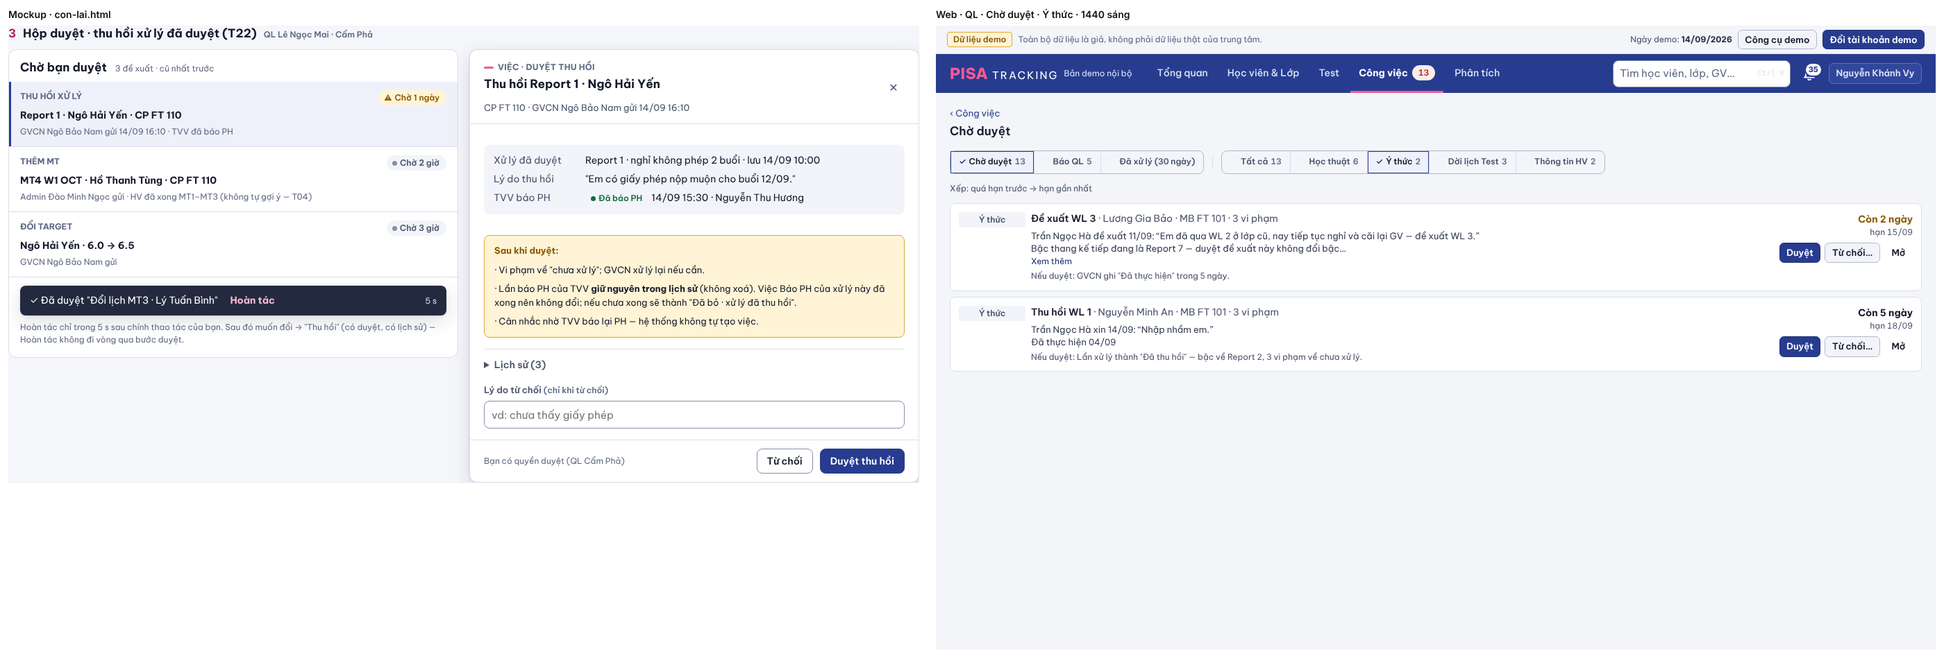
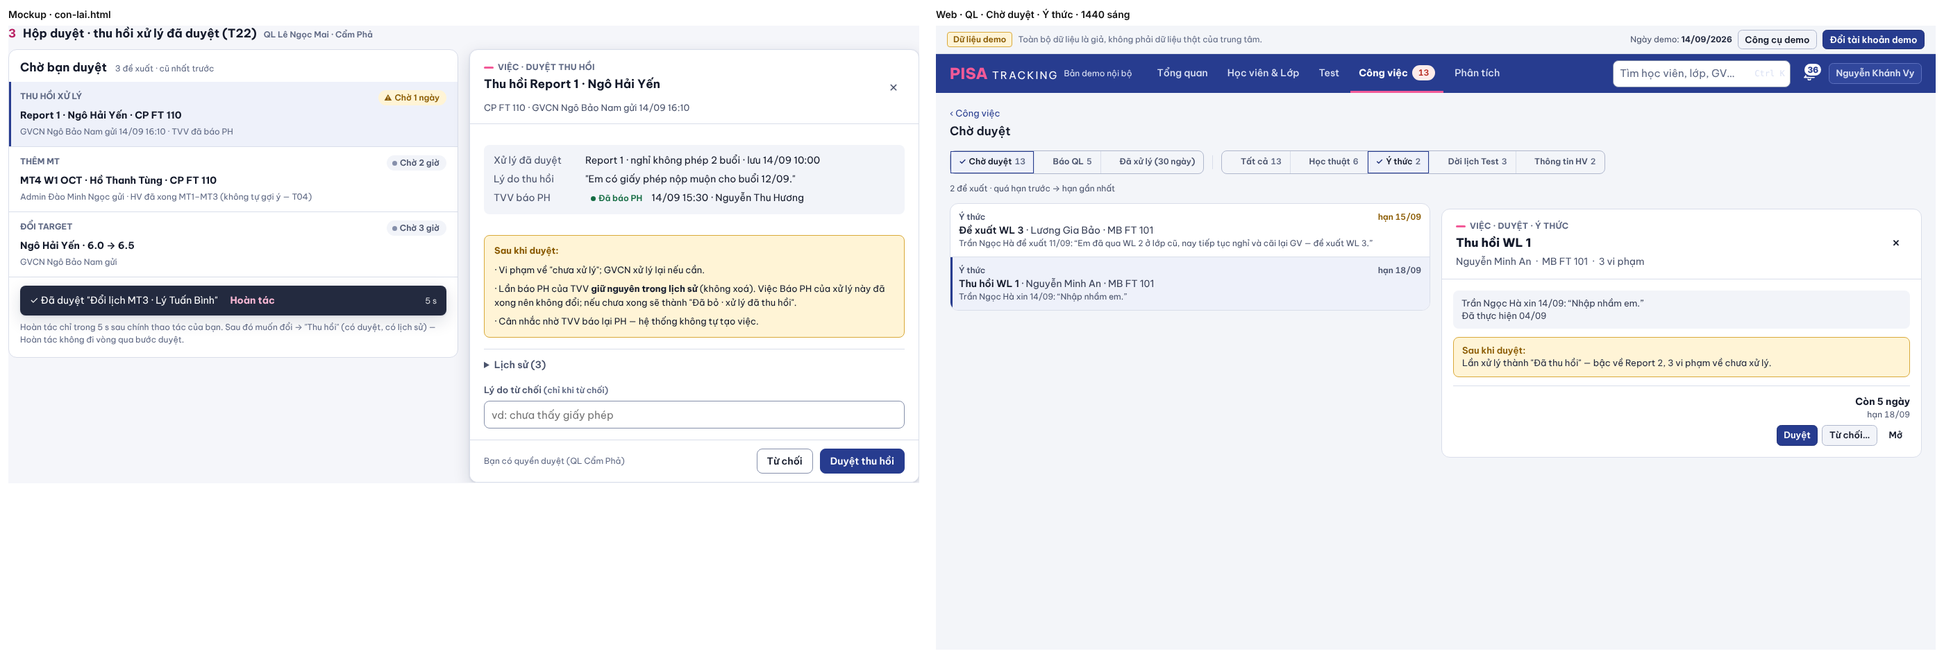
UI-CON-LAI bước 10: k3 Hộp duyệt như mockup — danh sách dòng gọn + panel duyệt tại chỗ (?the=, mẫu Chấm Test, 375 thay danh sách), khối Sau khi duyệt; giữ hàng loạt / Huỷ quyết định / Hoàn tác (chủ SP 24/10) · ảnh k3 chụp lại · khop-khac
Claude-Session: https://claude.ai/code/session_0117uaEoKjeVFST8pKHPHuup

diff --git a/web/src/modules/duyet/HopChoDuyet.tsx b/web/src/modules/duyet/HopChoDuyet.tsx
@@ -3,12 +3,15 @@ import { Link, useSearchParams } from 'react-router-dom';
 import { ApiError, api, invalidate } from '../../lib/api.ts';
 import { useApi } from '../../lib/useApi.ts';
 import { useToast } from '../../ui/Toast.tsx';
-import { BoLocDoan, Card, Empty, ErrorState, Skeleton } from '../../ui/ui.tsx';
+import { BoLocDoan, Card, Empty, ErrorState, NhanTrangThai, Skeleton } from '../../ui/ui.tsx';
+import { KhungPanel, KhungTaiCho, boChuRoi } from '../../ui/KhungPanel.tsx';
+import { useNgayNghiepVu } from '../../ui/ngayNghiepVu.ts';
+import { dich, t } from '@shared/i18n/index.ts';
 import { BranchFilter, useChiNhanhMacDinh } from '../../ui/Filters.tsx';
 import { NganCase } from '../students/NganCase.tsx';
 import { TheYeuCau } from './TheYeuCau.tsx';
 import {
-  LOAI_YC_META, PHAN_LOAI_CAN_QUYET, PHAN_LOAI_LABEL, TRAN_HANG_LOAT, chiaLo, chonHet, chonMot, laPhanLoai, tomTatKetQuaHangLoat,
+  LOAI_YC_META, PHAN_LOAI_CAN_QUYET, PHAN_LOAI_LABEL, TRAN_HANG_LOAT, chiaLo, chonHet, chonMot, deadlineView, laPhanLoai, nhanTrangThaiYc, tomTatKetQuaHangLoat,
   type KhoaChip, type LoaiYeuCau, type TheYeuCauDto,
 } from '@shared/domain/index.ts';
 
@@ -64,6 +67,12 @@ export function HopChoDuyet({ gon = false, branchId: cnTrang }: {
     next.delete('the');
     setParams(next, { replace: true });
   };
+  /* UI-CON-LAI k3: mở / đóng panel duyệt = `?the=` (giữ mọi bộ lọc). */
+  const moThe = (id: number | null) => {
+    const next = new URLSearchParams(params);
+    if (id) next.set('the', String(id)); else next.delete('the');
+    setParams(next, { replace: true });
+  };
   /* PR-GVb (J5b): link cũ `?phan=bao-len` (thông báo, Tổng quan cũ) → tab Báo QL, không gãy. */
   useEffect(() => {
     if (params.get('phan') !== 'bao-len') return;
@@ -83,6 +92,7 @@ export function HopChoDuyet({ gon = false, branchId: cnTrang }: {
   /* Mở từ chuông mà thẻ không còn trong danh sách đang xem (đã có người xử lý / tự đóng / khác chi nhánh đang lọc). */
   const theTuLink = Number(params.get('the')) || null;
   const theLac = !!data && !!theTuLink && !data.the.some((x) => x.id === theTuLink);
+  const theMo = theTuLink ? data?.the.find((x) => x.id === theTuLink) ?? null : null;
 
   /* Hàng loạt: một loại một lúc (luật ở `chonMot` / `chonHet`). */
   const [chon, setChon] = useState<Set<number>>(new Set());
@@ -181,7 +191,7 @@ export function HopChoDuyet({ gon = false, branchId: cnTrang }: {
           </button>
         )}
       </div>
-      {xem !== 'da-xu-ly' && ds.length > 1 && <p className="m-0 text-[12px] text-slate-400">Xếp: quá hạn trước → hạn gần nhất</p>}
+      {xem !== 'da-xu-ly' && ds.length > 1 && <p className="m-0 text-[12px] text-slate-400">{t('{n} đề xuất · quá hạn trước → hạn gần nhất', { n: ds.length })}</p>}
       {coCapHangLoat && <p className="m-0 text-[12px] text-slate-400">Đánh dấu ô ở thẻ để duyệt nhiều cùng loại.</p>}
       {theLac && (
         <p role="status" className="m-0 flex flex-wrap items-center gap-2 rounded-lg border px-3 py-2 text-[13px] text-slate-300"
@@ -201,7 +211,38 @@ export function HopChoDuyet({ gon = false, branchId: cnTrang }: {
         <Card><Empty title={xem === 'cho' ? 'Không có yêu cầu nào đang chờ' : xem === 'de-biet' ? 'Không có thẻ Báo QL'
           : 'Chưa có yêu cầu nào được xử lý trong 30 ngày'} /></Card>
       )}
-      {ds.length > 0 && (
+      {/* UI-CON-LAI k3 (con-lai.html, chủ SP 24/10): hộp đầy đủ = DANH SÁCH dòng gọn (quá hạn / cũ trước) + PANEL duyệt bên phải (375: toàn màn).
+          Bấm dòng = `?the=` (chuông / Quay lại mở đúng thẻ); quyết xong panel đóng, danh sách làm mới. Bản gọn đầu Công việc giữ thẻ tại chỗ. */}
+      {ds.length > 0 && !gon && (
+        /* Cùng mẫu Chấm Test: ≥ 1024 hai cột, panel TẠI CHỖ (không phủ, danh sách vẫn bấm được); < 1024 bấm dòng → panel thay danh sách. */
+        <div className="grid items-start gap-4 lg:grid-cols-[minmax(0,1fr)_minmax(0,1fr)]">
+          <ul className={`card m-0 list-none overflow-hidden p-0 ${theMo ? 'max-lg:hidden' : ''}`} aria-label="Danh sách yêu cầu">
+            {ds.map((y) => (
+              <DongYeuCau key={y.id} yc={y} dang={theTuLink === y.id} onMo={() => { if (theTuLink !== y.id) boChuRoi(() => moThe(y.id)); }}
+                chon={choHangLoat && y.hangLoat && y.trangThai === 'cho' ? {
+                  checked: chon.has(y.id),
+                  onChange: (v) => setChon((s) => chonMot(ds, s, y.id, v)),
+                } : null} />
+            ))}
+          </ul>
+          <div className={`lg:sticky lg:top-3 ${theMo ? 'space-y-2' : 'max-lg:hidden'}`}>
+            {theMo ? (
+              <>
+                <button type="button" className="link flex min-h-[44px] items-center gap-1.5 appearance-none border-0 bg-transparent p-0 text-[13px] lg:hidden"
+                  onClick={() => boChuRoi(() => moThe(null))}>‹ Chờ duyệt</button>
+                <KhungTaiCho.Provider value>
+                  <KhungPanel key={theMo.id} tieuDe={dich(theMo.tieuDe)} loai={`${t('VIỆC · DUYỆT')} · ${dich(theMo.nhanPhanLoai).toLocaleUpperCase('vi')}`}
+                    dau={{ dong2: [theMo.hocVien, theMo.lop, theMo.phu].filter(Boolean).map((x) => dich(x as string)) }}
+                    onDong={() => moThe(null)}>
+                    <TheYeuCau yc={theMo} panel onXong={() => { moThe(null); xong(); }} onThemPa={setNgan} />
+                  </KhungPanel>
+                </KhungTaiCho.Provider>
+              </>
+            ) : <Card><Empty title={t('Chọn một đề xuất bên trái để xem và quyết')} /></Card>}
+          </div>
+        </div>
+      )}
+      {ds.length > 0 && gon && (
         <div className="space-y-2">
           {dsHien.map((y) => (
             <TheYeuCau key={y.id} yc={y} nhanManh={nhan === y.id} onXong={xong} onThemPa={setNgan}
@@ -270,5 +311,38 @@ export function HopChoDuyet({ gon = false, branchId: cnTrang }: {
 
       {ngan && <NganCase caseId={ngan} viec="them-pa" onClose={() => setNgan(null)} onChanged={xong} />}
     </div>
+  );
+}
+
+/** UI-CON-LAI k3: MỘT dòng gọn của Hộp duyệt — loại · hạn (chữ, không chỉ màu) / việc · em · lớp / dòng đầu của lý do. Bấm = mở panel duyệt. */
+function DongYeuCau({ yc, dang, onMo, chon }: {
+  yc: TheYeuCauDto; dang: boolean; onMo: () => void; chon: { checked: boolean; onChange: (v: boolean) => void } | null;
+}) {
+  const { homNay, ngan } = useNgayNghiepVu();
+  const cho = yc.trangThai === 'cho';
+  const hanV = cho && yc.hanDuyet ? deadlineView({ kind: 'duyet', due: yc.hanDuyet, today: homNay }) : null;
+  const han = !hanV ? null : hanV.tone === 'overdue' ? `⚠ ${t('Quá hạn · {daysOverdue} ngày', { daysOverdue: hanV.daysOverdue })}` : hanV.homNay ? t('Hạn hôm nay') : hanV.han;
+  const tt = nhanTrangThaiYc(yc.trangThai, yc.tuDuyet);
+  return (
+    <li className={`flex items-start gap-2 border-b px-3 py-2.5 last:border-b-0 ${dang ? 'bg-[color:var(--accent-soft)] shadow-[inset_3px_0_0_var(--accent)]' : 'bam'}`}
+      style={{ borderColor: 'var(--line)' }}>
+      {chon && (
+        <label className="relative mt-1 inline-flex shrink-0 cursor-pointer max-sm:after:absolute max-sm:after:left-1/2 max-sm:after:top-1/2 max-sm:after:h-11 max-sm:after:w-11 max-sm:after:-translate-x-1/2 max-sm:after:-translate-y-1/2 max-sm:after:content-['']">
+          <input type="checkbox" className="h-4 w-4 accent-[color:var(--accent)]" checked={chon.checked}
+            onChange={(e) => chon.onChange(e.target.checked)} aria-label={t('Chọn: {tieuDe}', { tieuDe: dich(yc.tieuDe) })} />
+        </label>
+      )}
+      <button type="button" className="min-h-[44px] min-w-0 flex-1 cursor-pointer border-0 bg-transparent p-0 text-left sm:min-h-0" aria-current={dang || undefined} onClick={onMo}>
+        <span className="flex items-baseline justify-between gap-2">
+          <span className="truncate text-[12px] font-semibold text-slate-400">{dich(yc.nhanPhanLoai)}</span>
+          {cho ? han && <span className={`shrink-0 text-[12px] font-semibold tabular-nums ${hanV!.tone === 'overdue' ? 'text-late' : hanV!.ganHan ? 'text-soon' : 'text-slate-400'}`}>{han}</span>
+            : <span className="flex shrink-0 items-center gap-1.5"><NhanTrangThai t={tt.t} />{yc.xuLyLuc && <span className="text-[12px] text-slate-400">{ngan(yc.xuLyLuc)}</span>}</span>}
+        </span>
+        <b className="block truncate text-sm font-semibold text-slate-100">
+          {dich(yc.tieuDe)}{[yc.hocVien, yc.lop].filter(Boolean).length ? <span className="font-normal text-slate-300"> · {[yc.hocVien, yc.lop].filter(Boolean).join(' · ')}</span> : null}
+        </b>
+        {yc.dong[0] && <span className="block truncate text-[12px] text-slate-400">{dich(yc.dong[0])}</span>}
+      </button>
+    </li>
   );
 }

diff --git a/web/src/modules/duyet/TheYeuCau.tsx b/web/src/modules/duyet/TheYeuCau.tsx
@@ -30,7 +30,7 @@ const HUY_DUOC = new Set<string>(['de_xuat_pa', 'thu_hoi_y_thuc']);
  */
 type O = { loai: 'tu-choi' | 'tra-loi' | 'ghi-chu' | 'tuan' | 'sua' | 'sua-tra-loi' | 'rut' } | null;
 
-export function TheYeuCau({ yc, onXong, gon, laNguoiXin, chon, nhanManh, onThemPa }: {
+export function TheYeuCau({ yc, onXong, gon, laNguoiXin, chon, nhanManh, onThemPa, panel }: {
   yc: TheYeuCauDto;
   /** Sau khi thẻ đã được quyết (hoặc phát hiện đã bị người khác xử lý) — nơi gọi làm mới danh sách. */
   onXong: (id: number) => void;
@@ -44,6 +44,8 @@ export function TheYeuCau({ yc, onXong, gon, laNguoiXin, chon, nhanManh, onThemP
   nhanManh?: boolean;
   /** Xin ý kiến: "+ Thêm PA cho em" mở Thêm PA của Ngăn Case. */
   onThemPa?: (caseId: number) => void;
+  /** UI-CON-LAI k3: nằm trong panel duyệt của Hộp duyệt — một cột, tiêu đề ở đầu panel, lý do đọc hết, "Nếu duyệt" thành khối hậu quả, nút ở cuối. */
+  panel?: boolean;
 }) {
   const toast = useToast();
   const { homNay, ngan } = useNgayNghiepVu();
@@ -54,7 +56,7 @@ export function TheYeuCau({ yc, onXong, gon, laNguoiXin, chon, nhanManh, onThemP
   const [daBam, setDaBam] = useState(false);
   const [loiMay, setLoiMay] = useState<string | null>(null);
   const [busy, setBusy] = useState(false);
-  const [moHet, setMoHet] = useState(false);
+  const [moHet, setMoHet] = useState(!!panel);
   /* PR-CT: Duyệt thẻ Đề xuất chuyển lớp = mở panel ra lệnh điền sẵn (Quản lý sửa lớp, tuần rồi `Duyệt và quyết định`). */
   const [moChuyenLop, setMoChuyenLop] = useState(false);
   const nutMo = useRef<HTMLButtonElement | null>(null);
@@ -180,11 +182,11 @@ export function TheYeuCau({ yc, onXong, gon, laNguoiXin, chon, nhanManh, onThemP
 
   return (
     <article id={`the-${yc.id}`} data-the-id={yc.id} aria-label={`${dich(yc.nhanPhanLoai)}: ${dich(yc.tieuDe)}`}
-      className={`rounded-lg border p-3 transition-shadow ${nhanManh ? 'shadow-[0_0_0_2px_var(--accent-strong)]' : ''}`}
-      style={{ borderColor: hanV?.tone === 'overdue' && cho ? 'rgb(var(--late-line-rgb))' : 'var(--line)', background: 'var(--surface)' }}>
-      <div className="grid gap-x-4 gap-y-2 sm:grid-cols-[minmax(0,1fr)_auto]">
+      className={panel ? 'pt-3' : `rounded-lg border p-3 transition-shadow ${nhanManh ? 'shadow-[0_0_0_2px_var(--accent-strong)]' : ''}`}
+      style={panel ? undefined : { borderColor: hanV?.tone === 'overdue' && cho ? 'rgb(var(--late-line-rgb))' : 'var(--line)', background: 'var(--surface)' }}>
+      <div className={panel ? 'flex flex-col gap-3' : 'grid gap-x-4 gap-y-2 sm:grid-cols-[minmax(0,1fr)_auto]'}>
         <div className="min-w-0">
-          <div className="flex items-start gap-2">
+          {!panel && <div className="flex items-start gap-2">
             {chon && (
               /* OV-11i (P2-3): bọc <label> — vùng chạm 44 × 44 ở điện thoại (`after:`, mẫu MenuDong), ô tích giữ 16 px. */
               <label className="relative mt-1 inline-flex shrink-0 cursor-pointer max-sm:after:absolute max-sm:after:left-1/2 max-sm:after:top-1/2 max-sm:after:h-11 max-sm:after:w-11 max-sm:after:-translate-x-1/2 max-sm:after:-translate-y-1/2 max-sm:after:content-['']">
@@ -200,21 +202,27 @@ export function TheYeuCau({ yc, onXong, gon, laNguoiXin, chon, nhanManh, onThemP
               <b className="font-semibold text-slate-100">{dich(yc.tieuDe)}</b>
               {moTaPhu && <span className="text-slate-400"> · {dich(moTaPhu)}</span>}
             </p>
-          </div>
-          <div className={`mt-1 text-[13px] leading-snug text-slate-300 ${gon ? '' : 'sm:pl-[6.5rem]'}`}>
-            <div ref={khungDong} className={moHet ? '' : 'line-clamp-2'}>
+          </div>}
+          <div className={`mt-1 text-[13px] leading-snug text-slate-300 ${gon || panel ? '' : 'sm:pl-[6.5rem]'}`}>
+            <div ref={khungDong} className={panel ? 'rounded-lg bg-[color:var(--surface-2)] px-3 py-2.5' : moHet ? '' : 'line-clamp-2'}>
               {yc.dong.map((d, i) => <p key={i} className="m-0 whitespace-pre-line">{dich(d)}</p>)}
             </div>
-            {(biCat || moHet) && (
+            {(biCat || moHet) && !panel && (
               <button type="button" className="mt-0.5 min-h-[44px] text-[12px] text-[color:var(--accent-strong)] hover:underline sm:min-h-0" onClick={() => setMoHet(!moHet)}
                 aria-expanded={moHet}>{moHet ? t('Thu gọn') : t('Xem thêm')}</button>
             )}
-            {yc.neuDuyet && cho && <p className="m-0 mt-1 text-[12px] text-slate-400">{t('Nếu duyệt: {neuDuyet}', { neuDuyet: dich(yc.neuDuyet) })}</p>}
+            {yc.neuDuyet && cho && (panel ? (
+              /* k3: hậu quả nêu TRƯỚC khi bấm — khối vàng như mockup. */
+              <div className="mt-3 rounded-lg border px-3 py-2.5 text-[13px]" style={{ borderColor: 'rgb(var(--soon-line-rgb))', background: 'rgb(var(--soon-bg-rgb))' }}>
+                <b className="block font-semibold" style={{ color: 'rgb(var(--soon-rgb))' }}>{t('Sau khi duyệt:')}</b>
+                <span className="text-slate-200">{dich(yc.neuDuyet)}</span>
+              </div>
+            ) : <p className="m-0 mt-1 text-[12px] text-slate-400">{t('Nếu duyệt: {neuDuyet}', { neuDuyet: dich(yc.neuDuyet) })}</p>)}
             {!cho && <KetQua yc={yc} ngan={ngan} />}
           </div>
         </div>
 
-        <div className="flex flex-col gap-1.5 sm:items-end sm:text-right">
+        <div className={`flex flex-col gap-1.5 ${panel ? 'items-end border-t pt-3 text-right' : 'sm:items-end sm:text-right'}`} style={panel ? { borderColor: 'var(--line)' } : undefined}>
           {cho ? (
             tang1 && (
               <div className="tabular-nums">

diff --git a/server/src/tests/prUiConLai.tests.ts b/server/src/tests/prUiConLai.tests.ts
@@ -63,4 +63,10 @@ export async function runPrUiConLaiTests(t: any) {
     assert(!/ChuThieu/.test(hop) && /cell\.thieuNhanXet \? VIEN_THIEU_NX/.test(hop) && /CHU_O_THIEU\[cell\.thieuNhanXet\]/.test(hop), 'lưới: viền vàng + tooltip, không chữ');
     assert(!/text-soon/.test(lon) && /--soon-rgb/.test(lon) && /aria-description=\{thieu/.test(lon), 'ô lớn: viền vàng + aria, không chữ');
   });
+
+  check('UICL-7 (k3, chủ SP 24/10) · Hộp duyệt đầy đủ = danh sách dòng gọn + panel duyệt TẠI CHỖ (`?the=`, mẫu Chấm Test); bản gọn giữ thẻ; hàng loạt giữ', () => {
+    const h = fs.readFileSync(path.join(REPO, 'web/src/modules/duyet/HopChoDuyet.tsx'), 'utf8');
+    assert(/<DongYeuCau /.test(h) && /<KhungTaiCho\.Provider value>/.test(h) && /<TheYeuCau yc=\{theMo\} panel /.test(h), 'danh sách + panel');
+    assert(/next\.set\('the', String\(id\)\)/.test(h) && /ds\.length > 0 && gon &&/.test(h) && /chonMot\(ds, s, y\.id, v\)/.test(h), '?the= · bản gọn · hàng loạt');
+  });
 }

diff --git a/shared/i18n/en/uiConLai.ts b/shared/i18n/en/uiConLai.ts
@@ -17,4 +17,8 @@ export const EN_UI_CON_LAI = {
   'Không thấy': 'Not found',
   'Đường dẫn có thể cũ.': 'The link may be out of date.',
   'Hồ sơ của tôi ›': 'My profile ›',
+  '{n} đề xuất · quá hạn trước → hạn gần nhất': '{n} requests · overdue first → nearest deadline',
+  'Sau khi duyệt:': 'After approval:',
+  'VIỆC · DUYỆT': 'TASK · APPROVE',
+  'Chọn một đề xuất bên trái để xem và quyết': 'Pick a request on the left to review and decide',
 } as const;

diff --git a/docs/anh/ui-con-lai/khop-khac.md b/docs/anh/ui-con-lai/khop-khac.md
@@ -20,7 +20,8 @@ Số trên web là dữ liệu seed (khác số demo mockup) — so khung, thứ
 | 10 | k2 khoảng tuần Phân tích "tối đa 13" | **không sửa** — P9 (mới hơn) đã làm ở #558: Toàn bộ / tự do, không trần | — | BỎ (P9 thắng) |
 | 11 | k3 thẻ thu hồi: lý do · xử lý đã duyệt (ngày) · TVV báo PH · hậu quả trước khi duyệt | thẻ Hộp duyệt (V4) + máy chủ `loaiYeuCau.ts` `thu_hoi_y_thuc.nap`: "Đã thực hiện 07/08", "TVV đã báo PH dd/mm · tên — giữ trong lịch sử" / "TVV chưa báo PH — duyệt thì việc Báo PH thành Đã bỏ"; "Nếu duyệt" thêm nhắc báo lại PH | `cap-k3-hop-duyet-*` | KHỚP |
 | 12 | k3 **Hoàn tác 5 s chỉ thao tác của chính mình**, không vòng qua duyệt | toast Hoàn tác chung (`toast.hoanTac`, `HOAN_TAC_MS`) sau Duyệt / Từ chối — chỉ loại máy chủ huỷ được (`khiHuy`: Đề xuất PA, Thu hồi); bấm = đường "Huỷ quyết định" sẵn có (máy chủ kiểm quyền + trong ngày). Phép kiểm UICL-5 khoá danh sách loại | — | KHỚP |
-| 13 | k3 danh sách trái + panel duyệt phải | giữ thẻ tại chỗ của Hộp duyệt V4 (Duyệt · Từ chối… · Mở) — đổi bố cục cả hộp là PR màn riêng | `cap-k3-*` | KHÁC → [XM-2] |
+| 13 | k3 danh sách trái + panel duyệt phải (chủ SP 24/10: làm như mockup) | Hộp duyệt đầy đủ: `DongYeuCau` (loại · hạn · việc · em · lớp · dòng lý do; ô chọn hàng loạt giữ) + panel **tại chỗ** bên phải (`KhungTaiCho`, mẫu Chấm Test; 375: bấm dòng → panel thay danh sách, "‹ Chờ duyệt" về lại); `?the=` mở đúng thẻ (chuông, Quay lại); panel: bối cảnh trên nền nhạt, khối vàng "Sau khi duyệt:", hạn + Duyệt · Từ chối… · Mở cuối panel. Bản gọn đầu Công việc giữ thẻ | `cap-k3-hop-duyet-*` | KHỚP |
+| 13b | k3 "Lịch sử (3)" gập trong panel | không có — thẻ chưa trả lịch sử (gửi / báo PH / lưu); lịch sử xem ở hồ sơ HV › Ý thức (nút Mở) | `cap-k3-*` | KHÁC (nhỏ) |
 | 14 | k4 Công việc (n) = việc của tôi; chuông = tin **chưa đọc**, dáng khác (nền trắng chữ xanh) | chuông nét mảnh mọi bề rộng + chấm tròn `.cham-chuong` (trước: nút chữ "Thông báo" + số nền màu như badge việc) | `cap-k4-thong-bao-*` | KHỚP |
 | 15 | k4 nợ #528: badge việc không đếm `mine:false`; `viecQuaHan` chỉ kỹ năng thật sự quá hạn | `mywork.ts` `demSo` (đếm việc `mine`; Nhập điểm đếm `knsQuaHan`); hồ sơ GV xem người khác đếm theo `mine` gốc. Phép kiểm UICL-1…3 | — | KHỚP |
 | 16 | k4 không thông báo: "Chưa có thông báo mới" một dòng | đổi chữ + bỏ khối cao | — | KHỚP |
@@ -42,9 +43,8 @@ Số trên web là dữ liệu seed (khác số demo mockup) — so khung, thứ
 | — | BỎ: dòng chú thích mockup ("Tuần thuộc tháng chứa thứ Năm…", "Luật hai dấu hiệu…", "Hoàn tác chỉ trong 5 s…", "Panel ở 375 = toàn màn…") — P1 | không lên web | — | BỎ |
 | — | BỎ (truy vết): hàng "Hôm nay · Hôm qua" ở ô ngày · chuông dùng chung số việc · xuất ngầm chỉ trang đang thấy | đúng như BỎ | — | BỎ |
 
-**Đếm** (trừ dòng BỎ): 31 dòng − 1 (dòng 10 BỎ) = 30 · KHỚP 23 · KHÁC 7 (6, 9, 13, 22, 27, 31 nhỏ; 13 [XM-2]) → 23 / 30 = **77 %** theo dòng;
-theo **yêu cầu chốt** của truy vết (k1–k8, mỗi khung một dòng): k1 ✓ · k2 ✓ · k3 ✓ (thẻ, không panel) · k4 ✓ · k5 ✓ · k6 ✓ · k7 ✓ · k8 ✓ → 8 / 8.
-Cổng 90 % theo dòng **chưa đạt** nếu tính các KHÁC nhỏ — xem [XM-2], [XM-3].
+**Đếm** (trừ dòng BỎ): 32 dòng − 1 (dòng 10 BỎ) − 2 dòng chủ SP đã chốt không làm (22 hàng đợi gửi lại — XM-3 "theo đề xuất"; 27 CSV — P11) = 29 · KHỚP 24 · KHÁC nhỏ 5 (6, 9, 13b, 31, và k5 khối xung đột chỉ kiểm bằng mã) → 24 / 29 = **83 %** theo dòng; theo 8 khung yêu cầu: 8 / 8.
+Phần KHÁC còn lại đều là chi tiết nhỏ (dòng phụ GVCN ở kết quả tìm, ba tháng cạnh nhau, Lịch sử gập, gập bối cảnh khi bàn phím mở).
 
 ## Thao tác TRƯỚC → SAU
 
@@ -55,6 +55,9 @@ Cổng 90 % theo dòng **chưa đạt** nếu tính các KHÁC nhỏ — xem [XM
 | Tìm không ra | "Không tìm thấy học viên hoặc lớp" | câu nói phạm vi + link HV lưu trữ |
 | Chọn tuần (Lịch Test) | ‹ › · bấm mã tuần mở lịch ngày · "Về tuần này" (chỉ khi ở tuần khác) | ‹ › GIỮ · bấm mã tuần mở **danh sách mã tuần theo tháng** (vẫn ô gõ "W4 SEP / 28/09" + Gần đây) · nút **Tuần này** cố định |
 | Chọn tuần (ô tuần trong form: tạo lớp, MT, dự kiến thi…) | lịch ngày, bấm một ngày = chọn tuần | danh sách mã tuần theo tháng (cùng luật khoá tuần ngoài khoảng) |
+| Mở một đề xuất ở Hộp duyệt | đọc thẻ tại chỗ trong danh sách dài | bấm dòng → panel phải (danh sách vẫn thấy, chọn dòng khác = đổi panel); 375: panel thay danh sách |
+| Duyệt / Từ chối… / Mở / Huỷ quyết định / Sửa… / Rút / Trả lời… | nút trên thẻ | cùng nút, ở cuối panel (cùng hành vi, cùng ô lý do tại chỗ) |
+| Duyệt / từ chối hàng loạt | ô chọn ở thẻ + thanh dưới | ô chọn ở dòng + cùng thanh dưới |
 | Duyệt / Từ chối thẻ Đề xuất PA, Thu hồi | toast "Đã duyệt"; sửa nhầm = Đã xử lý › Huỷ quyết định (trong ngày) | GIỮ + toast **Hoàn tác (5)** ngay sau bấm |
 | Duyệt thẻ loại khác | như cũ | như cũ (máy chủ không cho huỷ → không hứa Hoàn tác) |
 | Mở thông báo | nút "Thông báo n" | chuông + chấm số chưa đọc (cùng hộp, cùng Đánh dấu đã đọc) |
@@ -65,10 +68,17 @@ Cổng 90 % theo dòng **chưa đạt** nếu tính các KHÁC nhỏ — xem [XM
 
 Không mất thao tác nào.
 
-## [XM] — hỏi PTA Plan
+## Chủ SP 24/10 (sau ảnh vòng 1)
+
+| # | Chủ SP | Đã làm |
+|---|---|---|
+| 1 | Hộp duyệt làm như mockup; còn lại theo đề xuất | k3 danh sách + panel (dòng 13). XM-1 giữ một PR; XM-3 không làm hàng đợi gửi lại |
+| 2 | Bỏ chữ dưới điểm Test; MT nên có nhận xét mà thiếu → hộp viền vàng | lưới điểm (`ODiemMt`) + ô lớn hồ sơ MT (`ODiemLon`): bỏ chữ "nên có nhận xét / nên chọn nguyên nhân", ô viền vàng (`--soon`); câu nhắc còn ở tooltip + tên đọc màn (không chỉ màu), chi tiết trong hộp nhập điểm. Cờ máy chủ không đổi (`thieuNhanXetMt`: chỉ MT thường, không MT cũ / MT0). Phép kiểm UICL-6 |
+
+## [XM] — đã chốt (chủ SP 24/10)
 
 - **XM-1 Tách PR.** Prompt: > 25 tệp thì tách 2 PR. PR này 32 tệp nhưng ~440 dòng; 14 tệp là phép kiểm / tiếng Anh sửa 1–3 dòng (khoá chữ mới). Phiên code chỉ được đẩy nhánh `claude/ui-con-lai-v5-pr-d6ugq9` — nếu vẫn cần tách (a = k1 k2 k4 k6 k7 · b = k3 k5 k8), PTA Plan cho tên nhánh thứ hai.
-- **XM-2 k3 Hộp duyệt dạng danh sách + panel phải.** Mockup vẽ lại cả Hộp duyệt; PR giữ thẻ tại chỗ V4 (đủ bối cảnh + Hoàn tác) vì đổi bố cục cả hộp (mọi loại thẻ, duyệt hàng loạt, Đã xử lý) là việc của một PR màn. Có làm không?
+- **XM-2** → làm như mockup (dòng 13).
 - **XM-3 k6 hàng đợi "n thay đổi chưa gửi, tự gửi lại".** Web chưa có hàng đợi gửi lại chung (mỗi ô tự giữ chữ + Thử lại). Dựng hàng đợi = thêm trạng thái ở mọi chỗ lưu — đề xuất không làm (luật 08/10: không thêm khi không đổi đầu ra).
 
 ## Ghi chú
